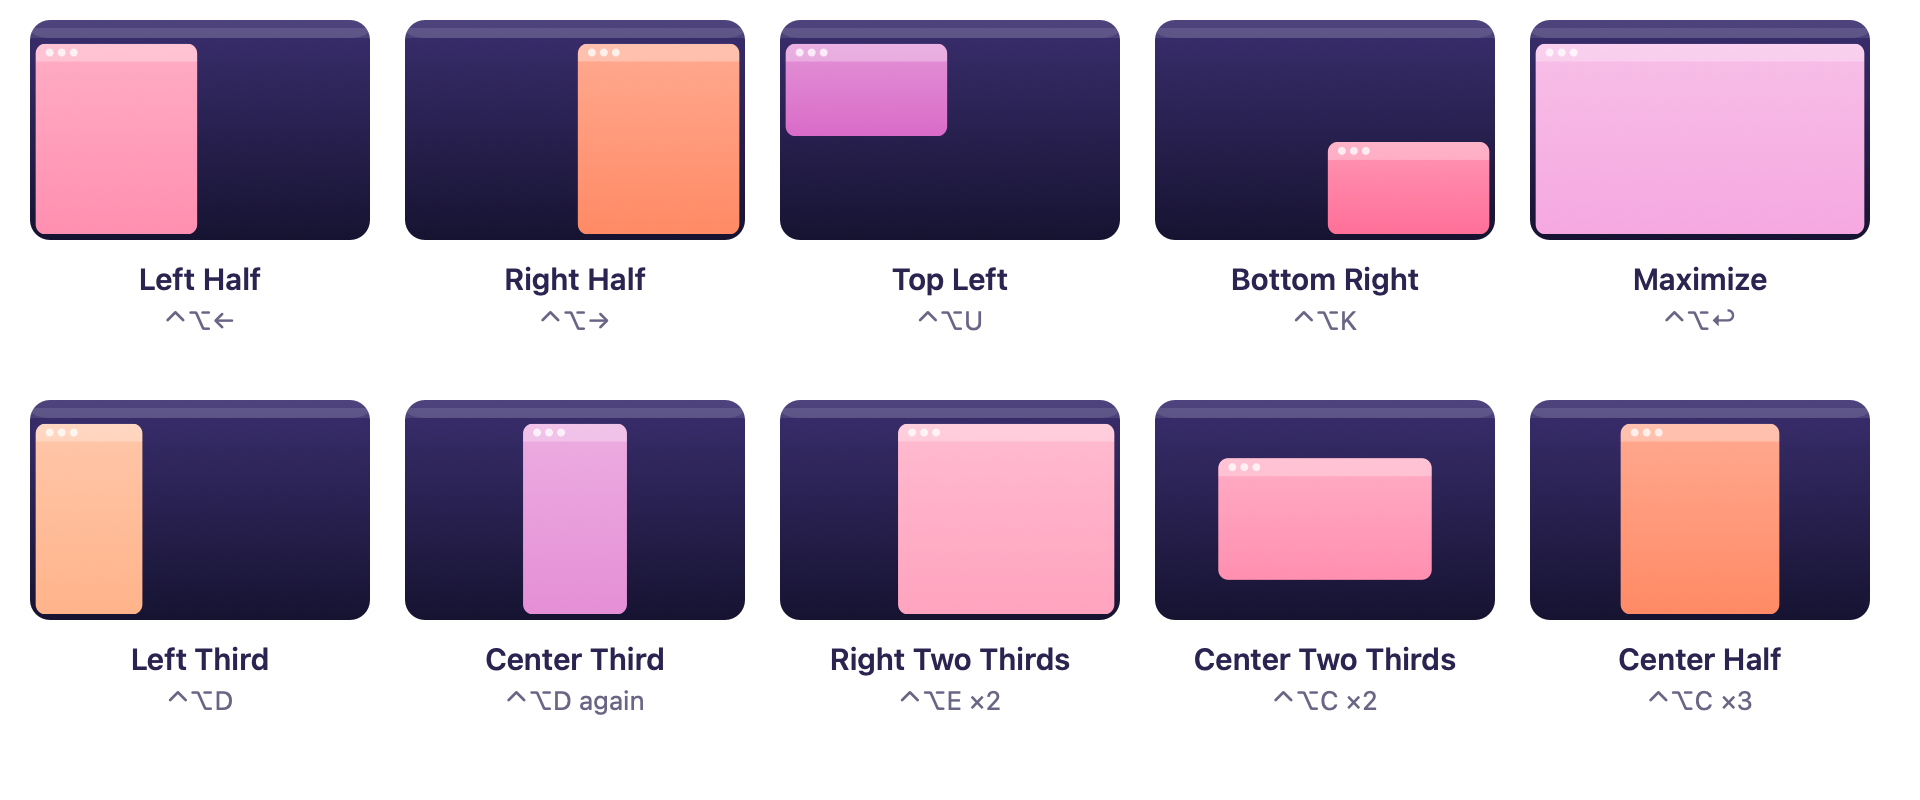
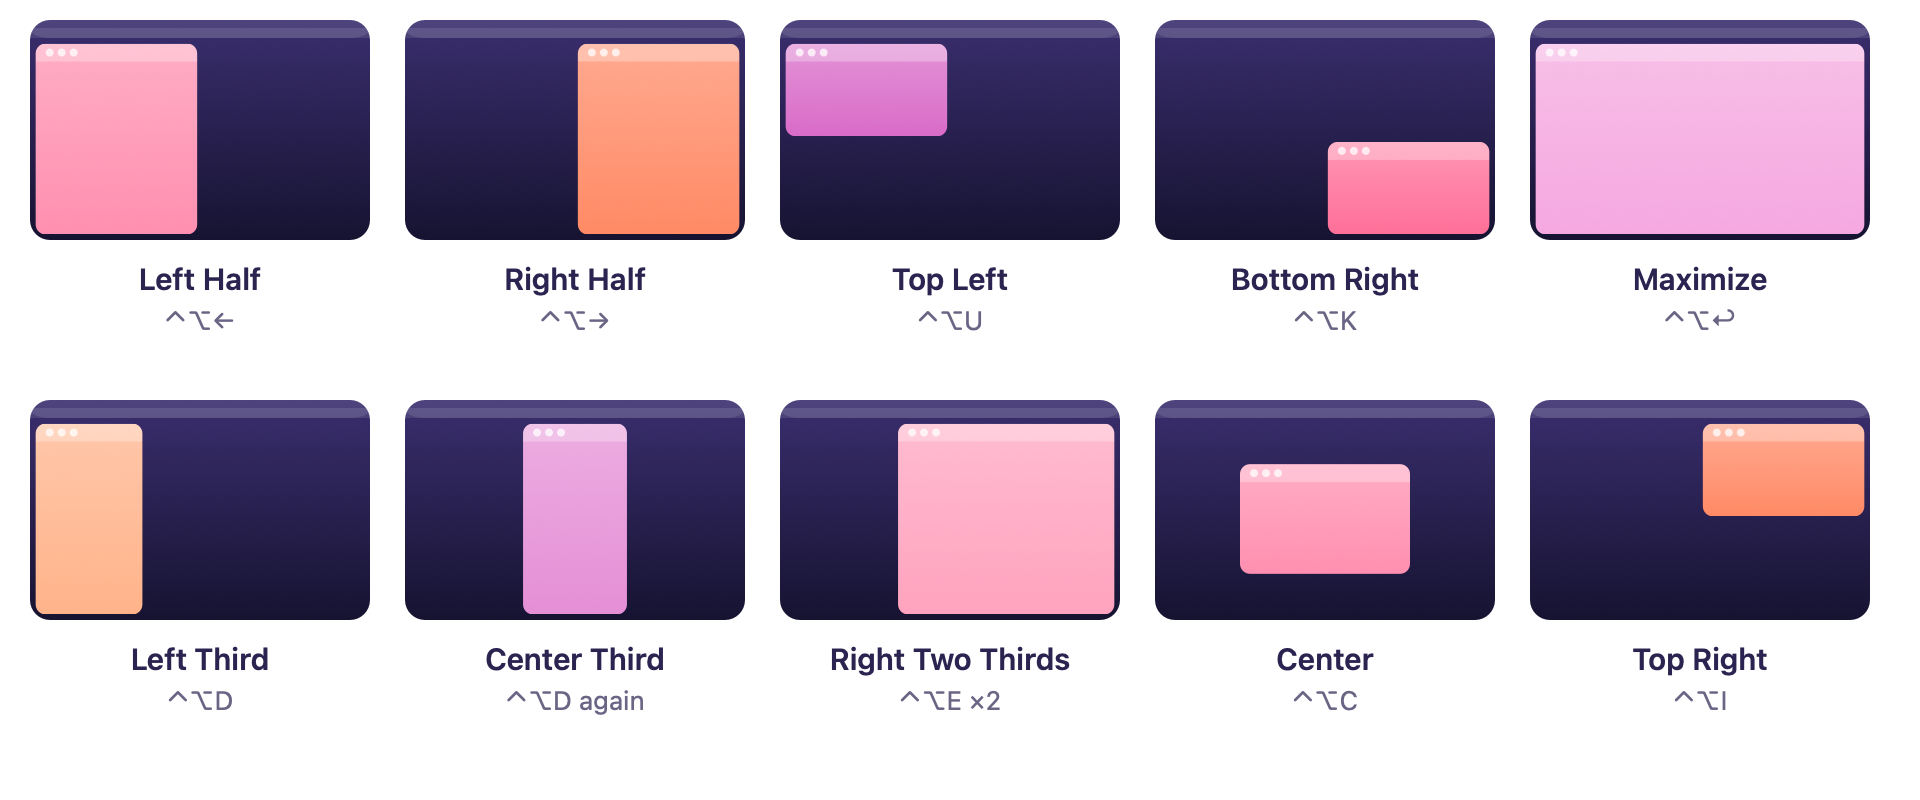
Snapping: one list for menu and Settings, Center without resize, Maximize toggles
- Snap Window menu and Settings → Snapping are built from HotkeyAction.snapGroups: same
  items, order, groups, titles and icons. Fill Empty Space moves to the Snapping tab; a
  menu click does what the hotkey does (cycles advance).
- Center only centers; the two-thirds/half center sizes are gone.
- ⌃⌥↩ again restores the window's frame from before Maximize (kept in memory).
- README snapping image regenerated.

diff --git a/Sources/main.swift b/Sources/main.swift
@@ -54,13 +54,8 @@ final class AppDelegate: NSObject, NSApplicationDelegate, NSMenuDelegate {
         hotkeys.setHandler(for: .tuckAll) { [weak self] in self?.tuck.toggleAll() }
         hotkeys.setHandler(for: .nextLayout) { [weak self] in self?.nextLayout() }
         hotkeys.setHandler(for: .forgetLayout) { [weak self] in self?.tiler.forgetSnapshot() }
-        hotkeys.setHandler(for: .fillSpace) { Snap.fillEmptySpace() }
         for action in HotkeyAction.snapping {
-            guard let positions = action.snapPositions else { continue }
-            hotkeys.setHandler(for: action) { [weak self] in
-                guard let self else { return }
-                self.afterSnap(Snap.focusedWindow(cycling: positions))
-            }
+            hotkeys.setHandler(for: action) { [weak self] in self?.performSnap(action) }
         }
         hotkeys.registerAll()
         tuck.start()
@@ -144,44 +139,39 @@ final class AppDelegate: NSObject, NSApplicationDelegate, NSMenuDelegate {
         }
     }
 
-    /// Snap positions for the focused window, grouped like the screen: halves, corners,
-    /// thirds, then maximize/center. Clicking Blossom's menu doesn't activate Blossom, so
-    /// "focused window" is still the one you were working in.
+    /// One item per snapping action, in the same groups and order as Settings → Snapping
+    /// (`HotkeyAction.snapGroups`). Clicking an item does exactly what its hotkey does, so a
+    /// cycle (Thirds, Top Half…) advances on each click. Clicking Blossom's menu doesn't
+    /// activate Blossom, so "focused window" is still the one you were working in.
     private func rebuildSnapMenu() {
         guard let submenu = snapItem.submenu else { return }
         submenu.removeAllItems()
-        // Every position is listed for clicking. Thirds share one cycling hotkey, so that
-        // key shows on each of them.
-        let groups: [[SnapPosition]] = [
-            [.leftHalf, .rightHalf, .topHalf, .bottomHalf],
-            [.topLeft, .topRight, .bottomLeft, .bottomRight],
-            [.firstThird, .centerThird, .lastThird, .firstTwoThirds, .lastTwoThirds],
-            [.maximize, .center, .centerTwoThirds, .centerHalf],
-        ]
-        for (index, group) in groups.enumerated() {
+        for (index, group) in HotkeyAction.snapGroups.enumerated() {
             if index > 0 { submenu.addItem(.separator()) }
-            for position in group {
+            for action in group {
                 let item = NSMenuItem(title: "", action: #selector(snapFromMenu(_:)), keyEquivalent: "")
-                let icon = position.icon(template: false)
-                item.attributedTitle = HotkeyAction.covering(position).map { titled(position.title, $0, icon: icon) }
-                    ?? NSAttributedString(string: position.title)
+                item.attributedTitle = titled(action.title, action, icon: action.snapIcon(template: false))
                 item.target = self
-                item.representedObject = position.rawValue
+                item.representedObject = action.rawValue
                 submenu.addItem(item)
             }
         }
-        submenu.addItem(.separator())
-        let fill = NSMenuItem(title: "", action: #selector(fillFromMenu), keyEquivalent: "")
-        fill.attributedTitle = titled(HotkeyAction.fillSpace.title, .fillSpace, icon: Snap.fillIcon(template: false))
-        fill.target = self
-        submenu.addItem(fill)
     }
 
-    @objc private func fillFromMenu() { Snap.fillEmptySpace() }
-
     @objc private func snapFromMenu(_ sender: NSMenuItem) {
-        guard let raw = sender.representedObject as? String, let position = SnapPosition(rawValue: raw) else { return }
-        afterSnap(Snap.focusedWindow(to: position))
+        guard let raw = sender.representedObject as? String, let action = HotkeyAction(rawValue: raw) else { return }
+        performSnap(action)
+    }
+
+    /// What a snapping hotkey or Snap Window item does.
+    private func performSnap(_ action: HotkeyAction) {
+        if action == .fillSpace {
+            Snap.fillEmptySpace()
+        } else if action == .snapMaximize {
+            afterSnap(Snap.toggleMaximize())
+        } else if let positions = action.snapPositions {
+            afterSnap(Snap.focusedWindow(cycling: positions))
+        }
     }
 
     /// With "auto tile others" on, a snap is followed by tiling the other windows into the

diff --git a/Sources/LayoutEngine.swift b/Sources/LayoutEngine.swift
@@ -49,7 +49,7 @@ enum SnapPosition: String, CaseIterable {
     case leftHalf, rightHalf, topHalf, bottomHalf
     case topLeft, topRight, bottomLeft, bottomRight
     case firstThird, centerThird, lastThird, firstTwoThirds, lastTwoThirds
-    case stretchVertical, maximize, center, centerTwoThirds, centerHalf
+    case stretchVertical, maximize, center
 
     var title: String {
         switch self {
@@ -69,8 +69,6 @@ enum SnapPosition: String, CaseIterable {
         case .stretchVertical: return "Stretch Vertically"
         case .maximize:       return "Maximize"
         case .center:         return "Center"
-        case .centerTwoThirds: return "Center Two Thirds"
-        case .centerHalf:     return "Center Half"
         }
     }
 
@@ -100,8 +98,6 @@ enum SnapPosition: String, CaseIterable {
         case .stretchVertical: return (0, 0, 1, 1)  // x is kept from the window
         case .maximize:       return (0, 0, 1, 1)
         case .center:         return nil
-        case .centerTwoThirds: return (1.0 / 6, 1.0 / 6, 5.0 / 6, 5.0 / 6)
-        case .centerHalf:     return (0.25, 0, 0.75, 1)
         }
     }
 }
@@ -208,19 +204,23 @@ enum LayoutEngine {
     /// Loose enough for windows that snap their size to a grid (Terminal).
     static let snapMatchTolerance: CGFloat = 12
 
+    /// Is `window` already at `position` (within `snapMatchTolerance` on every edge)?
+    static func isAt(_ position: SnapPosition, window: CGRect, area: CGRect, gap: CGFloat) -> Bool {
+        let t = snapMatchTolerance
+        let target = snapFrame(position, in: area, gap: gap, window: window)
+        return abs(target.minX - window.minX) <= t && abs(target.maxX - window.maxX) <= t
+            && abs(target.minY - window.minY) <= t && abs(target.maxY - window.maxY) <= t
+    }
+
     /// For a cycling hotkey: the position after the one the window is at now (wrapping),
     /// or the first if it's at none of them. The window's frame is the only state.
     ///
-    /// A window can match several positions at once: a window at Center Two Thirds is also
-    /// "centered at its own size". The last match counts (cycles list the general position
-    /// first), and steps that wouldn't move the window are skipped, so a cycle never stalls.
+    /// A window can match several positions at once: a top-half window that's already full
+    /// height also matches "stretch vertically". The last match counts (cycles list the
+    /// general position first), and steps that wouldn't move the window are skipped, so a
+    /// cycle never stalls.
     static func nextSnap(in positions: [SnapPosition], window: CGRect, area: CGRect, gap: CGFloat) -> SnapPosition {
-        let t = snapMatchTolerance
-        func isAt(_ position: SnapPosition) -> Bool {
-            let target = snapFrame(position, in: area, gap: gap, window: window)
-            return abs(target.minX - window.minX) <= t && abs(target.maxX - window.maxX) <= t
-                && abs(target.minY - window.minY) <= t && abs(target.maxY - window.maxY) <= t
-        }
+        func isAt(_ position: SnapPosition) -> Bool { LayoutEngine.isAt(position, window: window, area: area, gap: gap) }
         let current = positions.indices.last { isAt(positions[$0]) }
         var next = current.map { ($0 + 1) % positions.count } ?? 0
         for _ in positions.indices where isAt(positions[next]) {  // no-op step: skip it

diff --git a/Sources/SettingsWindow.swift b/Sources/SettingsWindow.swift
@@ -207,7 +207,13 @@ final class SettingsWindowController: NSWindowController {
     }
 
     private func buildSnappingPage() -> NSView {
+        // Same groups and order as the Snap Window menu, with a little space between groups.
         let table = grid(hotkeyRows(HotkeyAction.snapping, status: snapStatus))
+        var row = 0
+        for group in HotkeyAction.snapGroups {
+            if row > 0 { table.row(at: row).topPadding = 10 }
+            row += group.count
+        }
         table.column(at: 0).xPlacement = .center   // icons
         table.column(at: 1).xPlacement = .leading  // names
         table.rowAlignment = .none                 // image views have no baseline; center rows instead
@@ -219,7 +225,7 @@ final class SettingsWindowController: NSWindowController {
         footer.orientation = .vertical
         footer.alignment = .leading
         footer.spacing = 6
-        return page(intro: "Move the window you're working in to part of its screen. Restore Defaults on the Hotkeys tab resets these too.",
+        return page(intro: "Move the window you're working in to part of its screen. The Snap Window menu has the same items. Thirds and Two Thirds move to the next position when pressed again; Top and Bottom Half stretch to full height; Maximize again restores the window's size. Restore Defaults on the Hotkeys tab resets these too.",
                     grid: scrolled(table, height: 270), footer: footer)
     }
 
@@ -248,9 +254,9 @@ final class SettingsWindowController: NSWindowController {
             let clear = NSButton(title: "Clear", target: self, action: #selector(clearShortcut(_:)))
             clear.bezelStyle = .rounded
             clear.identifier = NSUserInterfaceItemIdentifier(action.rawValue)
-            if let position = action.snapPositions?.first {
-                // Snap rows lead with a picture of the position: [icon, name, shortcut, Clear].
-                let icon = NSImageView(image: position.icon(size: NSSize(width: 26, height: 18)))
+            if HotkeyAction.snapping.contains(action), let image = action.snapIcon(size: NSSize(width: 26, height: 18)) {
+                // Snap rows lead with the same picture as the menu: [icon, name, shortcut, Clear].
+                let icon = NSImageView(image: image)
                 icon.contentTintColor = .labelColor
                 rows.append([icon, label(action.title), field, clear])
             } else {
@@ -486,7 +492,7 @@ final class SettingsWindowController: NSWindowController {
 
     @objc private func clearShortcut(_ sender: NSButton) {
         guard let raw = sender.identifier?.rawValue, let action = HotkeyAction(rawValue: raw) else { return }
-        apply(nil, to: action, status: action.snapPositions == nil ? hotkeyStatus : snapStatus)
+        apply(nil, to: action, status: HotkeyAction.snapping.contains(action) ? snapStatus : hotkeyStatus)
     }
 
     @objc private func modifiersChanged() {

diff --git a/Sources/Shortcuts.swift b/Sources/Shortcuts.swift
@@ -92,23 +92,24 @@ enum HotkeyAction: String, CaseIterable {
         // Pressing the top/bottom key again stretches the window to full height.
         case .snapTopHalf:    return [.topHalf, .stretchVertical]
         case .snapBottomHalf: return [.bottomHalf, .stretchVertical]
-        // First press centers at the current size; further presses resize, still centered.
-        case .snapCenter:     return [.center, .centerTwoThirds, .centerHalf]
         default:
             guard rawValue.hasPrefix("snap.") else { return nil }
             return SnapPosition(rawValue: String(rawValue.dropFirst("snap.".count))).map { [$0] }
         }
     }
 
-    /// The action whose hotkey reaches `position`: its own single-position action if it
-    /// has one, otherwise the cycle it belongs to.
-    static func covering(_ position: SnapPosition) -> HotkeyAction? {
-        allCases.first { $0.snapPositions?.first == position && $0.snapPositions?.count == 1 }
-            ?? allCases.first { $0.snapPositions?.contains(position) == true }
-    }
+    /// Snapping actions in display order, grouped like the screen: halves, corners, thirds,
+    /// then whole-window moves. The Snap Window menu and Settings → Snapping are both built
+    /// from this list, so they always show the same items in the same order.
+    static let snapGroups: [[HotkeyAction]] = [
+        [.snapLeftHalf, .snapRightHalf, .snapTopHalf, .snapBottomHalf],
+        [.snapTopLeft, .snapTopRight, .snapBottomLeft, .snapBottomRight],
+        [.snapThirds, .snapTwoThirds],
+        [.snapMaximize, .snapCenter, .fillSpace],
+    ]
 
-    static var general: [HotkeyAction] { allCases.filter { $0.snapPositions == nil } }
-    static var snapping: [HotkeyAction] { allCases.filter { $0.snapPositions != nil } }
+    static var snapping: [HotkeyAction] { snapGroups.flatMap { $0 } }
+    static var general: [HotkeyAction] { allCases.filter { !snapping.contains($0) } }
 
     var title: String {
         switch self {
@@ -118,11 +119,9 @@ enum HotkeyAction: String, CaseIterable {
         case .nextLayout:   return "Next Layout"
         case .forgetLayout: return "Forget Saved Layout"
         case .fillSpace:    return "Fill Empty Space"
-        case .snapTopHalf:    return "Top Half (again: full height)"
-        case .snapBottomHalf: return "Bottom Half (again: full height)"
-        case .snapCenter:     return "Center (again: resize)"
-        case .snapThirds:    return "Thirds (press to cycle)"
-        case .snapTwoThirds: return "Two Thirds (press to cycle)"
+        case .snapMaximize:  return "Maximize / Restore"
+        case .snapThirds:    return "Thirds"
+        case .snapTwoThirds: return "Two Thirds"
         default:            return snapPositions?.first?.title ?? rawValue
         }
     }

diff --git a/Sources/Snap.swift b/Sources/Snap.swift
@@ -62,6 +62,36 @@ enum Snap {
         return focusedWindow(to: LayoutEngine.nextSnap(in: positions, window: frame, area: area, gap: Tiler.gap))
     }
 
+    /// Frames windows had before Maximize, so pressing Maximize again puts them back.
+    /// In memory only, one entry per window; closed windows just fail the restore.
+    private static var beforeMaximize: [(window: AXUIElement, frame: CGRect)] = []
+
+    /// Maximize, or, if the window is already maximized and Blossom maximized it, restore
+    /// its size and position from before. A window maximized some other way (or before a
+    /// Blossom restart) has nothing to go back to, so it stays put.
+    @discardableResult
+    static func toggleMaximize() -> SnapPosition? {
+        guard Permissions.isTrusted(prompt: true) else { return nil }
+        guard let window = AX.focusedWindow(), let frame = AX.frame(of: window), !AX.isFullScreen(window),
+              let screen = Geometry.screen(containing: frame) ?? NSScreen.main else {
+            NSSound.beep()
+            return nil
+        }
+        let area = Geometry.axRect(fromCocoa: screen.visibleFrame)
+        let saved = beforeMaximize.firstIndex { CFEqual($0.window, window) }
+        if LayoutEngine.isAt(.maximize, window: frame, area: area, gap: Tiler.gap) {
+            guard let saved else {
+                NSSound.beep()
+                return nil
+            }
+            AX.setFrame(window, beforeMaximize.remove(at: saved).frame)
+            return nil
+        }
+        if let saved { beforeMaximize.remove(at: saved) }
+        beforeMaximize.append((window, frame))
+        return focusedWindow(to: .maximize)
+    }
+
     /// Returns `position` if the window moved, nil otherwise.
     @discardableResult
     static func focusedWindow(to position: SnapPosition) -> SnapPosition? {
@@ -141,5 +171,14 @@ enum Snap {
         image.isTemplate = template
         image.accessibilityDescription = "Fill Empty Space"
         return image
+    }
+}
+
+extension HotkeyAction {
+    /// The picture for a snapping action, the same in the Snap Window menu and Settings.
+    /// A cycle shows its first position.
+    func snapIcon(size: NSSize = NSSize(width: 20, height: 14), template: Bool = true) -> NSImage? {
+        if self == .fillSpace { return Snap.fillIcon(size: size, template: template) }
+        return snapPositions?.first?.icon(size: size, template: template)
     }
 }

diff --git a/Tests/LayoutEngineTests.swift b/Tests/LayoutEngineTests.swift
@@ -276,19 +276,6 @@ struct LayoutEngineTests {
             check(LayoutEngine.nextSnap(in: [.bottomHalf, .stretchVertical], window: snap(.bottomHalf), area: area, gap: gap)
                   == .stretchVertical, "cycle: bottom half → full height")
 
-            // Center: keep size first, then two thirds, half, two thirds… never stalls on
-            // "already centered".
-            let centerCycle: [SnapPosition] = [.center, .centerTwoThirds, .centerHalf]
-            func nextC(_ w: CGRect) -> SnapPosition { LayoutEngine.nextSnap(in: centerCycle, window: w, area: area, gap: gap) }
-            check(nextC(current) == .center, "center cycle: off-center window → center at its size")
-            check(nextC(snap(.center)) == .centerTwoThirds, "center cycle: centered → two thirds")
-            check(nextC(snap(.centerTwoThirds)) == .centerHalf, "center cycle: two thirds → half")
-            check(nextC(snap(.centerHalf)) == .centerTwoThirds, "center cycle: half → two thirds (skips no-op center)")
-            let twoThirdsC = snap(.centerTwoThirds)
-            check(abs(twoThirdsC.midX - inner.midX) <= 1 && abs(twoThirdsC.midY - inner.midY) <= 1, "center two thirds is centered")
-            check(abs(twoThirdsC.width - inner.width * 2 / 3) <= gap + 1, "center two thirds ~2/3 wide")
-            let halfC = snap(.centerHalf)
-            check(abs(halfC.midX - inner.midX) <= 1 && halfC.minY == inner.minY && halfC.maxY == inner.maxY, "center half: centered, full height")
 
             let pair: [SnapPosition] = [.firstTwoThirds, .lastTwoThirds]
             check(LayoutEngine.nextSnap(in: pair, window: snap(.firstTwoThirds), area: area, gap: gap) == .lastTwoThirds,

diff --git a/Tools/ReadmeImages/main.swift b/Tools/ReadmeImages/main.swift
@@ -122,7 +122,7 @@ render("layouts", NSSize(width: 960, height: 280)) { bounds in
 render("snapping", NSSize(width: 960, height: 400)) { bounds in
     let positions: [(SnapPosition, String)] = [
         (.leftHalf, "⌃⌥←"), (.rightHalf, "⌃⌥→"), (.topLeft, "⌃⌥U"), (.bottomRight, "⌃⌥K"), (.maximize, "⌃⌥↩"),
-        (.firstThird, "⌃⌥D"), (.centerThird, "⌃⌥D again"), (.lastTwoThirds, "⌃⌥E ×2"), (.centerTwoThirds, "⌃⌥C ×2"), (.centerHalf, "⌃⌥C ×3"),
+        (.firstThird, "⌃⌥D"), (.centerThird, "⌃⌥D again"), (.lastTwoThirds, "⌃⌥E ×2"), (.center, "⌃⌥C"), (.topRight, "⌃⌥I"),
     ]
     let cols = 5, w: CGFloat = 170, h: CGFloat = 110, spacingX: CGFloat = 17.5, rowH: CGFloat = 190
     for (i, (position, keys)) in positions.enumerated() {

diff --git a/README.md b/README.md
@@ -90,8 +90,9 @@ Windows mode and *Reset learned window sizes*.
 
 ![Snap positions and their default hotkeys](docs/images/snapping.png)
 
-Move the window you're working in to part of its screen. The Snap Window menu has the
-same positions. Change any shortcut under **Settings → Snapping**.
+Move the window you're working in to part of its screen. The Snap Window menu and
+**Settings → Snapping** list the same actions in the same order; clicking a menu item does what
+its hotkey does. Change any shortcut in Settings.
 
 | Position | Default |
 | --- | --- |
@@ -99,8 +100,8 @@ same positions. Change any shortcut under **Settings → Snapping**.
 | Top-left / Top-right / Bottom-left / Bottom-right | ⌃⌥U ⌃⌥I ⌃⌥J ⌃⌥K |
 | Thirds: press again to cycle left → center → right | ⌃⌥D |
 | Two thirds: press again to toggle left ⇄ right | ⌃⌥E |
-| Maximize | ⌃⌥↩ |
-| Center: first press keeps the size, then cycles centered ⅔ → ½ width | ⌃⌥C |
+| Maximize: press again to restore the original size and position | ⌃⌥↩ |
+| Center (keeps the size) | ⌃⌥C |
 | Fill Empty Space: grow into the largest area no other window covers | ⌃⌥Z |
 
 Turn on *After snapping a window, tile the other windows* (Settings → Snapping) and a
